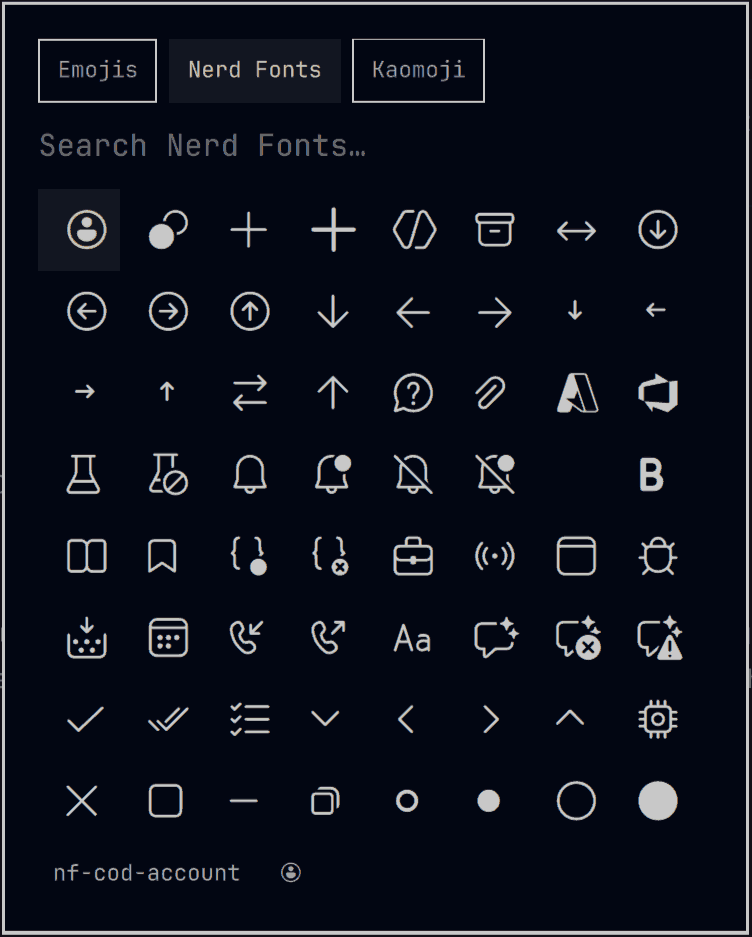
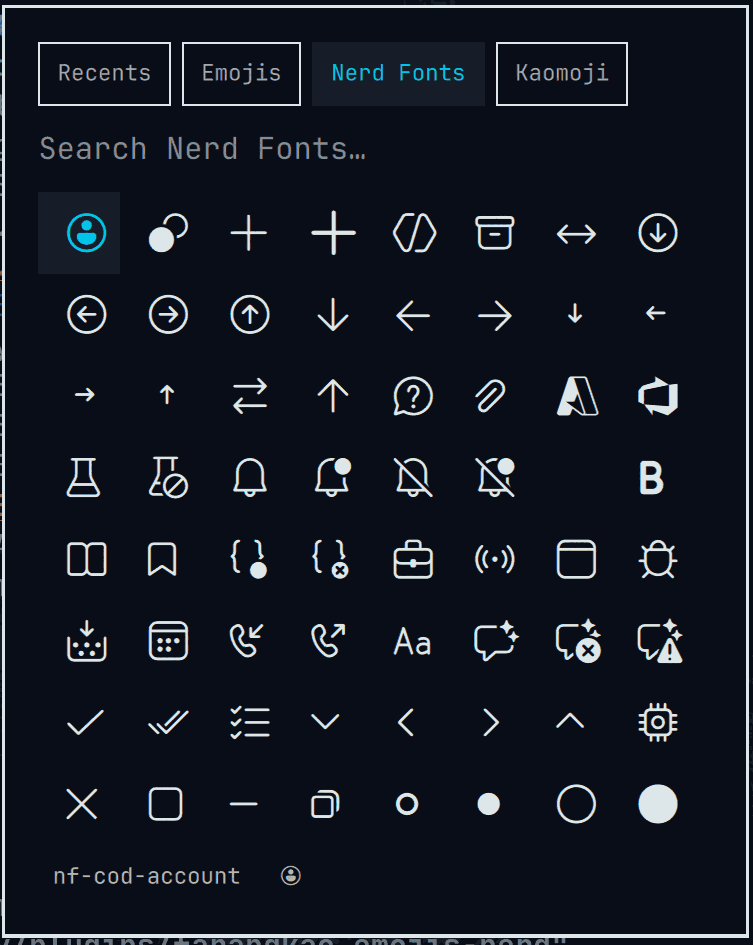
Release prep for 1.2.1: Nerd Fonts 3.5.1 pin, fresh screenshots, README updates
- Pin and regenerate the dataset from Nerd Fonts v3.5.1 (glyph set is
  byte-identical to 3.5.0), correct nerdfonts.json -> nerdfonts.tsv and
  the version in THIRD_PARTY_NOTICES.md
- Replace preview.png and add preview-recents.png (palette-reduced
  screenshots), embed the Recents shot next to the feature bullet with
  a contributor footnote
- Credit the Recents contributions in the acknowledgment, document the
  recents history file in the removal guidance
- manifest 1.2.1

diff --git a/README.md b/README.md
@@ -6,6 +6,9 @@ emoji picker. SUPER+CTRL+E keeps working; it just opens this picker instead.
 
 > **Acknowledgment:** this plugin was heavily developed with AI assistance
 > (GLM-5.3). All code has been reviewed and tested by the repository owner.
+> The Recents tab and backwards mode cycling (Shift+Tab) were contributed
+> by [Somnius](https://github.com/Somnius) in
+> [PR #3](https://github.com/farangkao/omarchy-emojis-nerd/pull/3).
 
 ![Emojis, Kaomoji & Nerd Fonts picker](preview.png)
 
@@ -15,6 +18,13 @@ emoji picker. SUPER+CTRL+E keeps working; it just opens this picker instead.
   Recents list of what you recently typed or copied, one full-width row each
   so long kaomoji fit (persisted under
   `~/.local/state/omarchy/emojis-nerd-recents.json`)
+
+  ![Recents tab](preview-recents.png)
+
+  *Recents, Alt+number hotkeys, and the hint footer by
+  [Somnius](https://github.com/Somnius)
+  ([PR #3](https://github.com/farangkao/omarchy-emojis-nerd/pull/3),
+  [PR #5](https://github.com/farangkao/omarchy-emojis-nerd/pull/5)).*
 - **Three datasets, one popup** — 1,800+ emojis, 10,600+ Nerd Font glyphs,
   and 1,500+ kaomoji (Japanese emoticons)
 - **`!house` flips to Nerd Fonts instantly** — the leading `!` is a sticky
@@ -85,7 +95,14 @@ omarchy plugin update farangkao.emojis-nerd
 omarchy plugin remove farangkao.emojis-nerd
 ```
 
-Removal re-enables the built-in emoji picker.
+Removal re-enables the built-in emoji picker. Your Recents history
+(`~/.local/state/omarchy/emojis-nerd-recents.json`) survives removal —
+leaving it is harmless and keeps your history if you reinstall; delete it
+for a fully clean slate:
+
+```bash
+rm -f ~/.local/state/omarchy/emojis-nerd-recents.json
+```
 
 ## Controls
 
@@ -128,7 +145,7 @@ Local dev loop: edit → `mise run install-local` → SUPER+CTRL+E.
 ### Dataset
 
 `nerdfonts.tsv` is generated from Nerd Fonts `glyphnames.json` (name →
-codepoint mapping only; no font data), pinned to v3.5.0. One line per
+codepoint mapping only; no font data), pinned to v3.5.1. One line per
 glyph: keywords, name, hex codepoint. Alias names sharing a codepoint are
 merged, and keywords are source-derived only — the name in its `nf-`, raw,
 and dashed forms plus its words. Set labels ("material", "fontawesome",

diff --git a/THIRD_PARTY_NOTICES.md b/THIRD_PARTY_NOTICES.md
@@ -15,7 +15,7 @@ Copyright (c) David Heinemeier Hansson
 
 Copyright (c) 2014 Ryan L McIntyre
 
-- `nerdfonts.json` is generated from Nerd Fonts v3.5.0 `glyphnames.json`
+- `nerdfonts.tsv` is generated from Nerd Fonts v3.5.1 `glyphnames.json`
   (the glyph name → codepoint mapping) by `tools/convert_nerd.py`.
   It contains no font data or font files.
 
